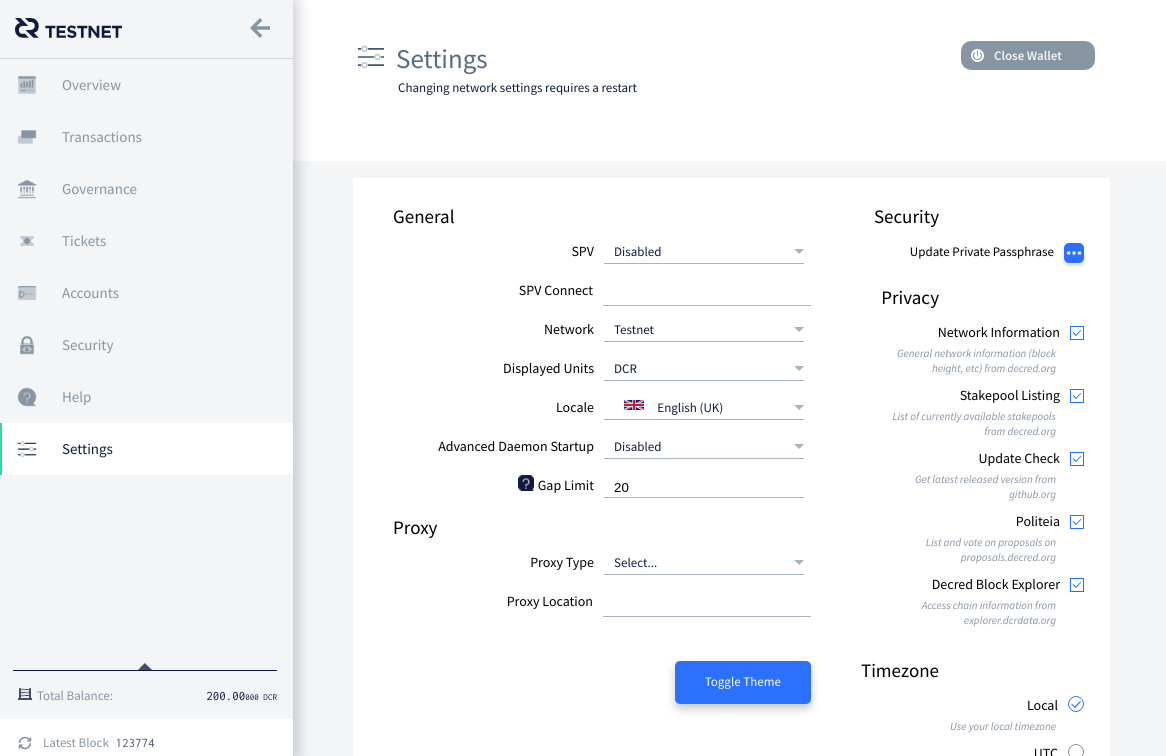
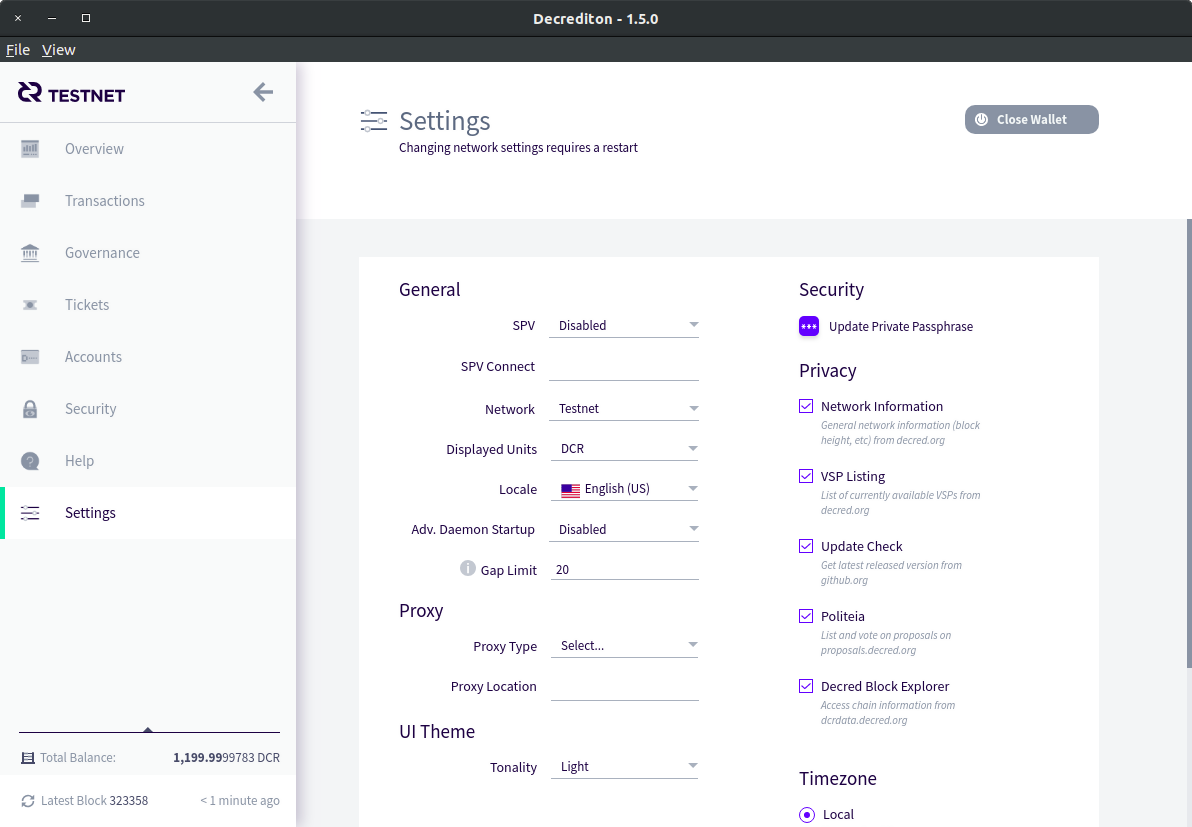
Using Decrediton page

diff --git a/docs/wallets/decrediton/using-decrediton.md b/docs/wallets/decrediton/using-decrediton.md
@@ -66,7 +66,7 @@ The governance tab enables users holding tickets to have their say on Decred's g
 
 ![Governance page](/img/decrediton/governance.png)
 
-Politeia proposals can be filtered by "Under Discussion", "Under Vote", "Finished Voting" and "Abandoned". The "Create Proposal" button will open on <https://proposals.decred.org> in your browser.
+Politeia proposals can be filtered by "Under Discussion", "Under Vote", "Finished Voting" and "Abandoned". The "Create Proposal" button will open <https://proposals.decred.org> in your browser.
 
 You are able to vote on proposals if the following two criteria are met:
 
@@ -89,7 +89,7 @@ The tickets tab is split into four sections:
 
 ### Purchase
 
-Before you can purchase tickets you must first import the API key from your [stakepool account](../../proof-of-stake/how-to-stake.md#pos-using-a-voting-service-provider-vsp).
+Before you can purchase tickets you must first import the API key from your [VSP account](../../proof-of-stake/how-to-stake.md#pos-using-a-voting-service-provider-vsp).
 
 ![Tickets Tab](/img/decrediton/tickets.png)
 
@@ -127,7 +127,7 @@ The "Automatic Ticket Buyer" panel allows you to enable the automated ticket buy
 ![Automatic Purchase panel](/img/decrediton/autobuyer.png)
 
 - **From** - Funds to purchase tickets will come from this account
-- **Stake Pool** - Which pool to purchase tickets with
+- **VSP** - Which VSP to purchase tickets with
 - **Balance to maintain** - If your balance is lower than this number, you will not buy tickets. The default of 0 will use all the funds in your account to buy tickets
 
 ### My Tickets
@@ -136,9 +136,9 @@ This tab shows a summary of all of the tickets your wallet has ever purchased. F
 
 ### Statistics
 
-This page displays various statistics about all of the available stakepools. The dropdown can be used to change the currently displayed pool.
+This page displays various statistics about all of the available VSPs. The dropdown can be used to change the currently displayed VSP.
 
-![Stakepool statistics page](/img/decrediton/pool-stats.png)
+![VSP statistics page](/img/decrediton/pool-stats.png)
 
 ---
 

diff --git a/docs/faq/errors.md b/docs/faq/errors.md
@@ -8,7 +8,7 @@
 
 1. Delete the wallet and restore from seed
 
-1. Open Tickets view, click import script button, paste the stakepool script into the textbox, enter the private passphrase and click Save.
+1. Open Tickets view, click import script button, paste the VSP script into the textbox, enter the private passphrase and click Save.
 
 1. Wait until the rescan completes.
 
